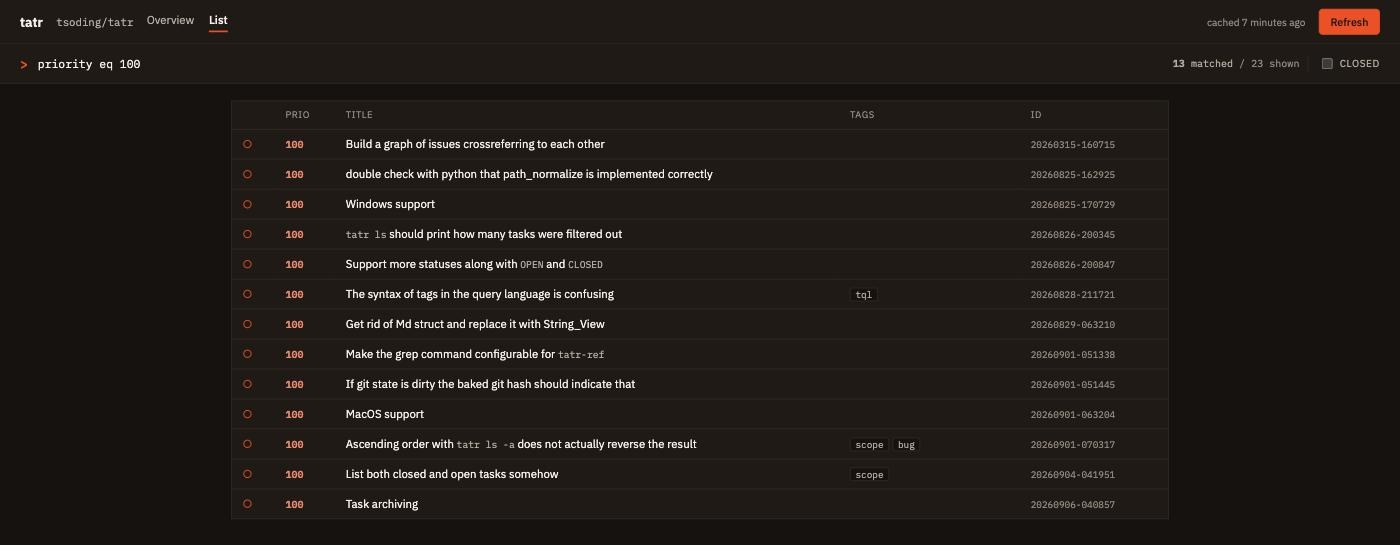
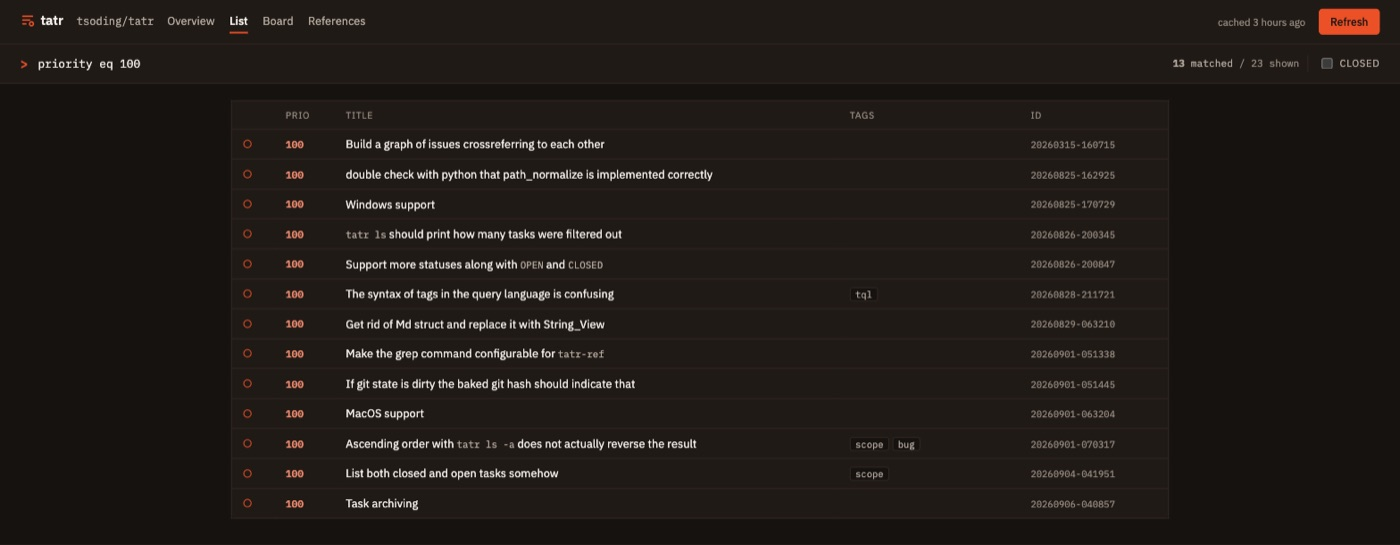
docs: the README said three doors then two, and its pictures were a fortnight old
The local-folder section opened with "the widest door of the three" and two
paragraphs later said "the two ask differently — so the page says which one
is coming before you click". A drop asks nothing, the drop being the gesture,
so the count is now two of three and the drop says as much. The section also
states what the folder guard does: a folder with no tasks in it is told so
rather than trawled.

The mirror bullet promised what one mirror cannot. "Hitting the limit anyway
is not the end" was written when there were two of them.

And the pictures were the worse fault: all three showed a header with two
views, predating the board, the graph and the brand mark — the shop window
displaying a fortnight-old product beside a table of six URLs. Retaken at the
same framings, on the same repository and query, so only the product differs.

diff --git a/README.md b/README.md
@@ -113,11 +113,11 @@ behind the same IP address, so:
   repositories that still call it `master`.
 - **Contents come from a CDN.** `raw.githubusercontent.com` does not count
   against the API quota at all.
-- **Hitting the limit anyway is not the end.** The page asks `ungh.cc`, which
-  proxies the same API with its own credentials, rather than showing you an
-  error. That is the only request this site makes to anyone but GitHub, it
-  carries nothing but the repository name, and it happens only when the budget
-  is already spent.
+- **A spent budget gets one more chance.** The page asks `ungh.cc`, which
+  proxies the same API with its own credentials, before giving up. One mirror,
+  not a chain of them: it is the only request this site makes to anyone but
+  GitHub, it carries nothing but the repository name, and it happens only once
+  the budget is gone.
 - **A refresh that fails costs you nothing.** The reading you were looking at
   stays on screen and the header says it was not renewed, rather than trading a
   true copy for an error page.
@@ -151,14 +151,19 @@ Chromium today and which Brave ships turned off. The directory input, everywhere
 else, hands over one snapshot, and refreshing means picking again — which the
 button says instead of pretending.
 
-Either way your browser asks first, and the two ask differently — so the page
+Two of the three ask your permission, and they ask differently — so the page
 says which one is coming before you click. The picker asks for access to that
 one folder. The directory input asks by the _file count_, because it cannot know
 that this page will not upload what it is given: a whole checkout produces
 _"import 7,775 files?"_, most of which is `node_modules`, and all but the
 `tasks/` folder is discarded on arrival. Picking `tasks/` directly is accepted
 for exactly that reason, and costs only the branch name, which lives in
-`.git/HEAD` one level up.
+`.git/HEAD` one level up. A drop asks nothing, the drop being the gesture
+itself.
+
+Whichever door it came through, a folder with no tasks in it is told so rather
+than trawled: the reader picked a folder, and the page can see in one look
+whether it holds task folders.
 
 ## Identical to the CLI — and that claim is tested
 

diff --git a/tasks/20260908-062348/TASK.md b/tasks/20260908-062348/TASK.md
@@ -189,3 +189,33 @@ wrapped an object's method spy on the function itself — shorter, and asking th
 same question. 584 tests unchanged, `svelte-check` at zero, and the module count
 of `sources/` down by one.
 
+---
+
+The README was re-read against the code, at the reader's prompting, and it was
+wrong in two ways — one of them worse than a stale sentence.
+
+The count contradicted itself. "The widest door of the three" opened the local
+section, and two paragraphs later "Either way your browser asks first, and the
+two ask differently — so the page says which one is coming before you click".
+Three doors, then two, and a click that does not exist: a drop asks nothing,
+the drop *being* the gesture. Now two of the three ask, the drop says so, and
+the section also states what tonight's guard does — a folder with no tasks in it
+is told so rather than trawled.
+
+And the mirror bullet promised more than one mirror can. "Hitting the limit
+anyway is not the end" was written when there were two; with ungh alone it is
+one more chance, not a guarantee, and it now says so.
+
+The worse fault was in the pictures. All three screenshots showed a header with
+**two** views, Overview and List — they predate the board and the graph, and the
+brand mark. So the README's shop window displayed a product from two weeks ago
+while its own table listed six URLs. Retaken at the same framings (1400×868,
+1400×545, 1400×330) on the same repository and the same query, so only the
+product differs: four views, the mark, and the Source panel that links a task to
+its file on the forge.
+
+Verified as correct, having been checked rather than assumed: the 64 rows and 34
+query invocations against the fixtures, the 60 requests an hour, `1`-`4`
+switching among exactly four views, the `404.html` the build emits, and every
+query in the table appearing in the CLI replay.
+
